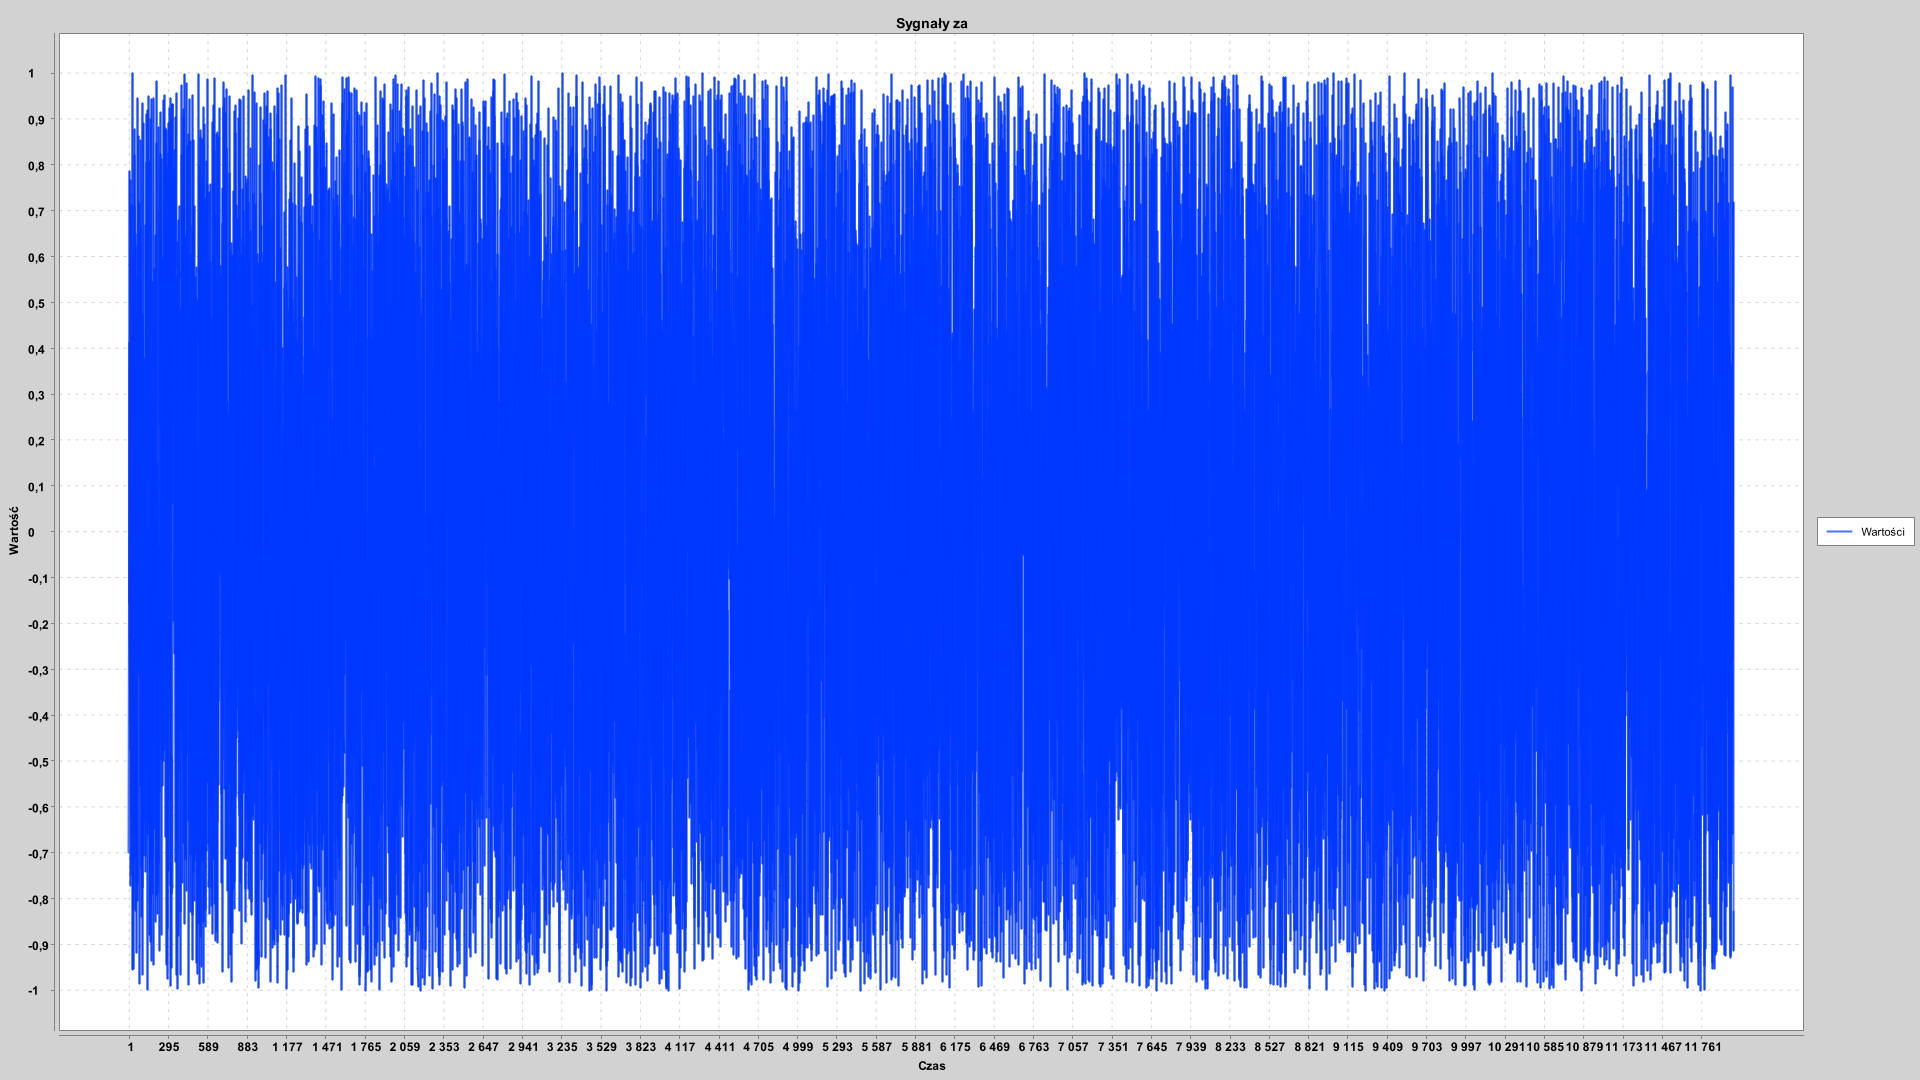
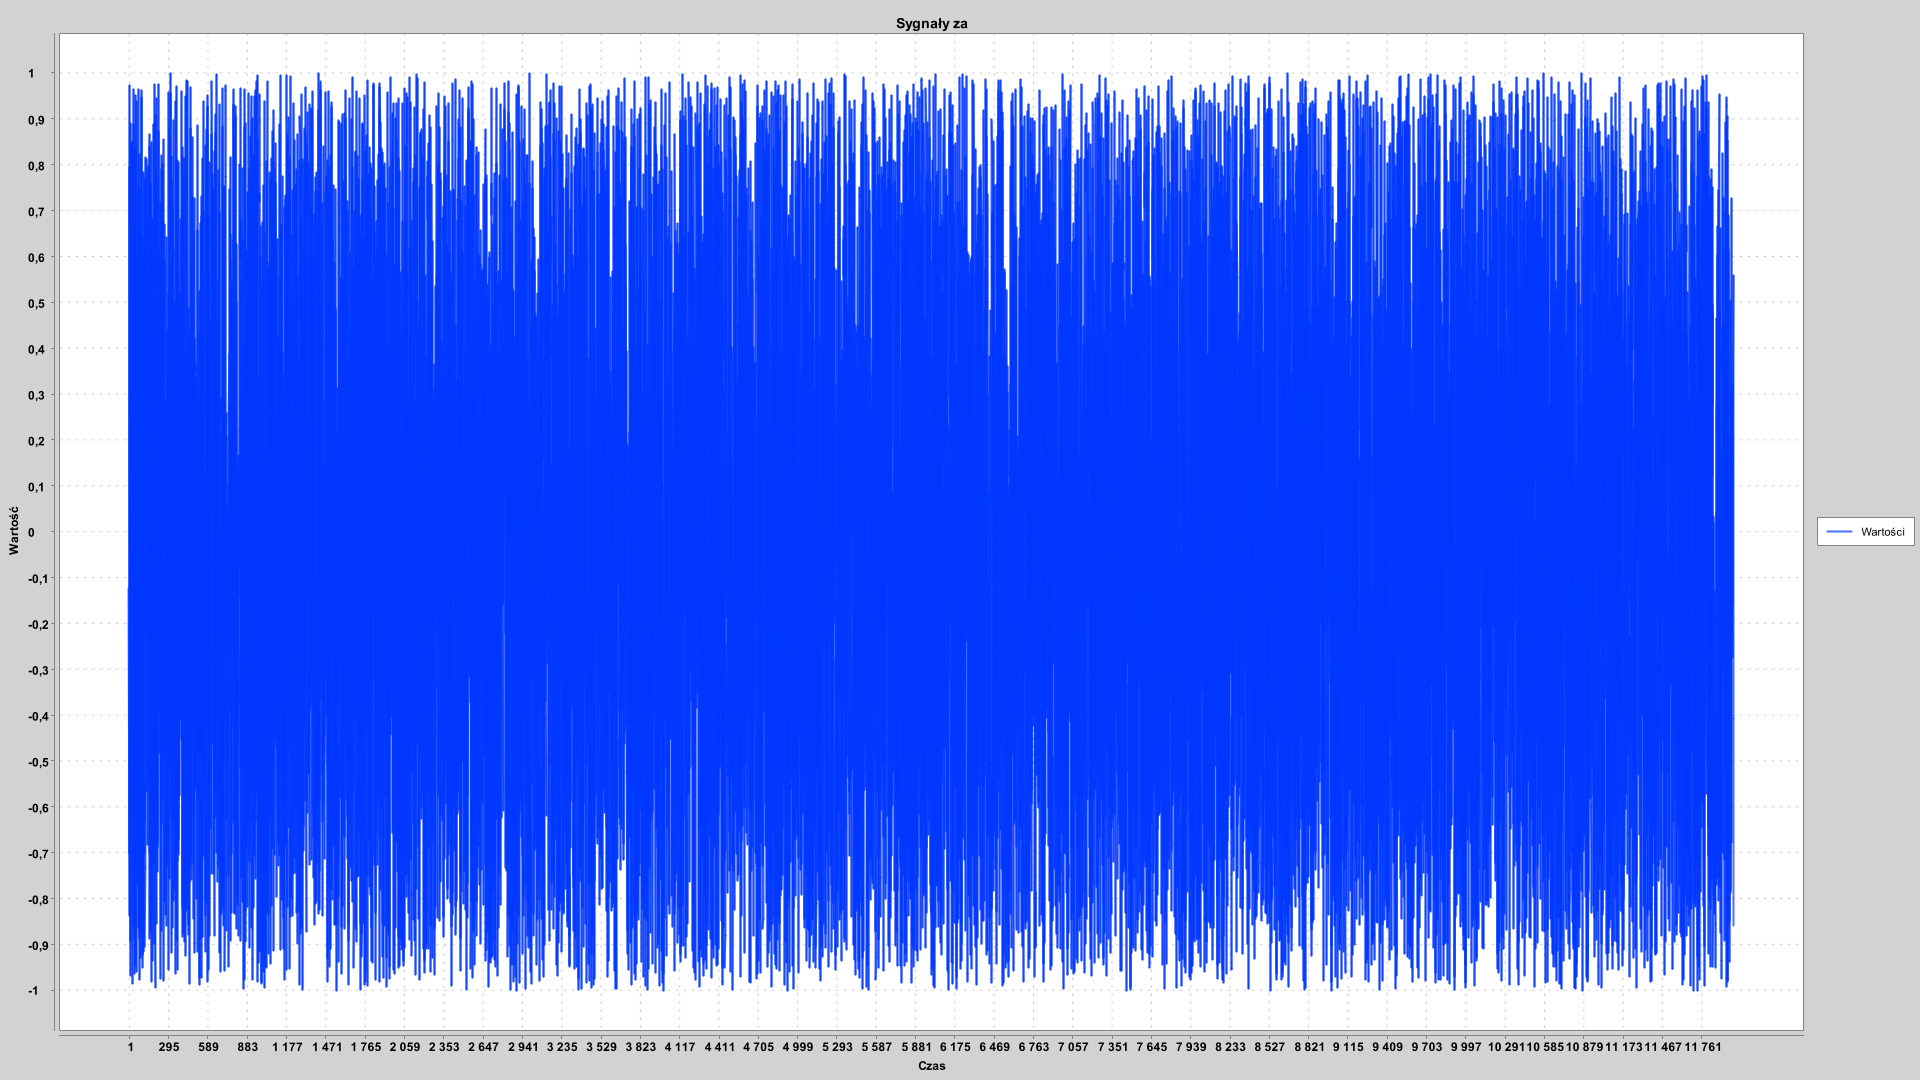
12.06

Changed region(s): [[0.0625, 0.0611, 0.9062, 0.3667], [0.0625, 0.6722, 0.9062, 0.9167]]

diff --git a/src/Lab7/Main.java b/src/Lab7/Main.java
@@ -76,8 +76,8 @@ public class Main {
             ofs = ofs + tbp;
         }
 
-        return transmisionZad2(za, whiteNoise(za.length),8);
-//        return transmisionZad1(za, whiteNoise(za.length),8);
+      //  return transmisionZad2(za, whiteNoise(za.length),8);
+        return transmisionZad1(za, whiteNoise(za.length),0);
     }
 
     public static List<Double> transmisionZad1(double[] ASK, double[] whiteNoise, int alfa) {
